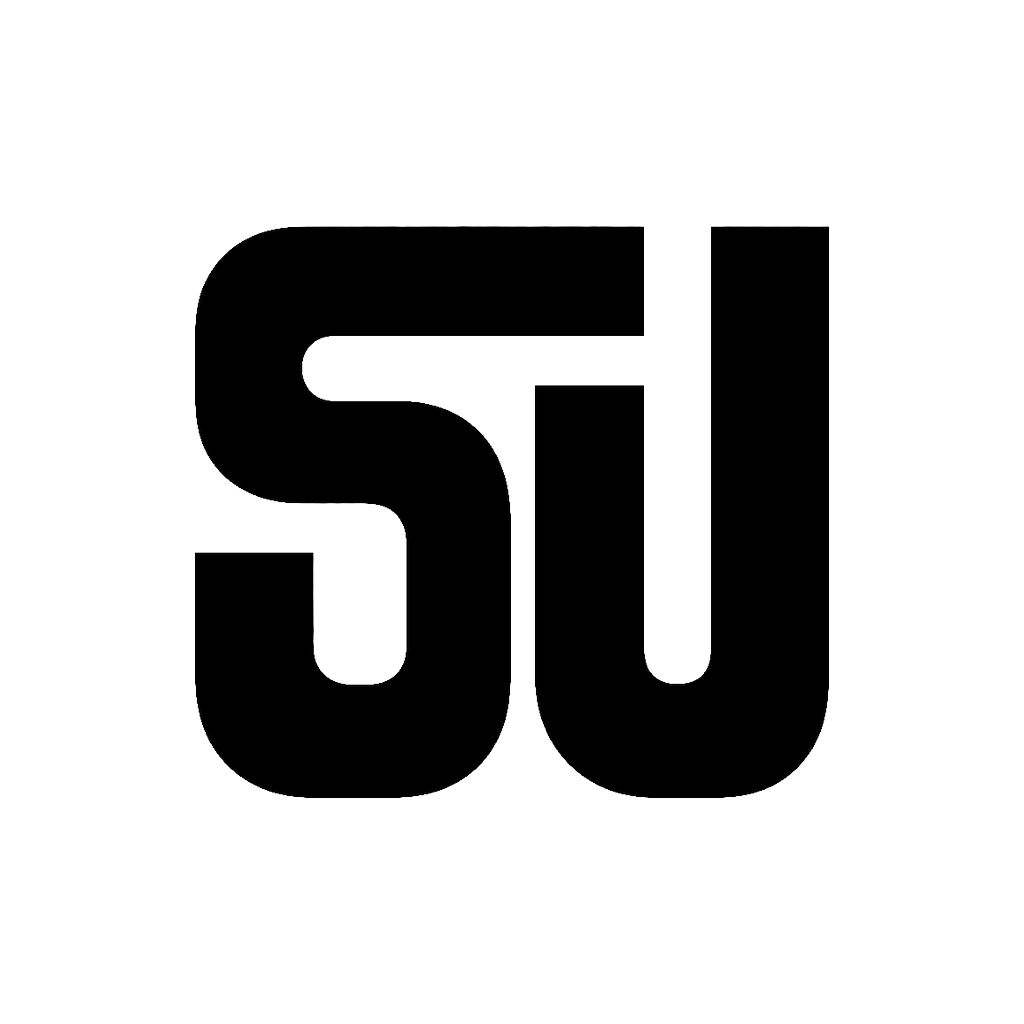
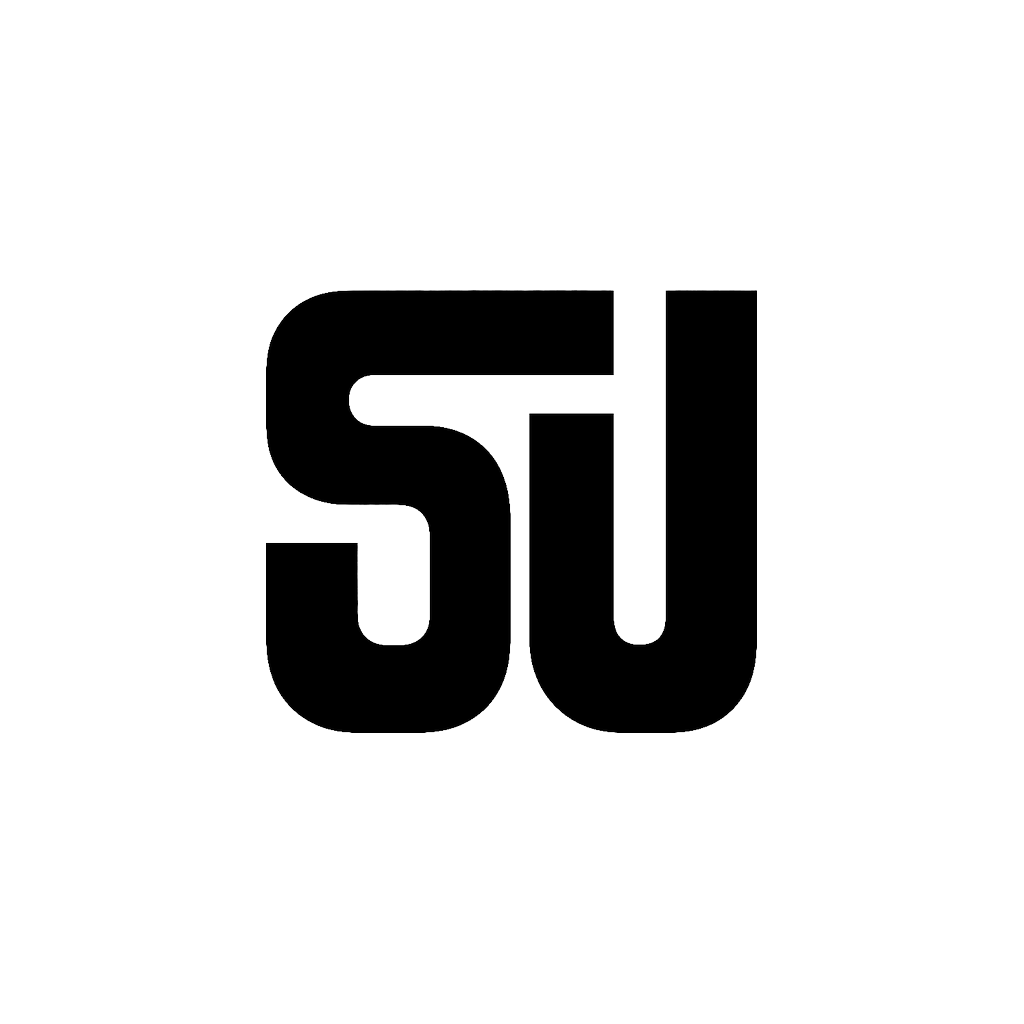
Ship v5.0.11: shrink the SU launcher mark so Android does not clip it, and keep Assist off in this freeze.

Changed region(s): [[0.1875, 0.2188, 0.8125, 0.7812]]

diff --git a/apps/mobile/app/(tabs)/ai.tsx b/apps/mobile/app/(tabs)/ai.tsx
@@ -1,5 +1,5 @@
 import Ionicons from '@expo/vector-icons/Ionicons';
-import { type Href, useLocalSearchParams, useRouter } from 'expo-router';
+import { type Href, Redirect, useLocalSearchParams, useRouter } from 'expo-router';
 import { useCallback, useEffect, useMemo, useRef, useState } from 'react';
 import {
   ActivityIndicator,
@@ -47,13 +47,7 @@ import { useTheme, useThemedStyles, type AppTheme } from '@/src/theme';
 type Phase = 'home' | 'setup' | 'working' | 'review' | 'applied';
 
 export default function AssistScreen() {
-  if (!launchFlags.ai) {
-    return (
-      <View style={{ flex: 1, padding: 24, justifyContent: 'center' }}>
-        <Text>Assist is off in this build.</Text>
-      </View>
-    );
-  }
+  if (!launchFlags.ai) return <Redirect href="/" />;
   return <AssistScreenInner />;
 }
 

diff --git a/apps/mobile/src/lib/launchFlags.ts b/apps/mobile/src/lib/launchFlags.ts
@@ -15,13 +15,9 @@ function extra(name: string): string {
  * and fall back to `extra` baked at prebuild (GitHub APKs set these in CI).
  */
 export const launchFlags = {
-  /** Assist tab + settings. Off in Play/store unless EXPO_PUBLIC_LAUNCH_AI=1. */
+  /** Assist tab + settings. Off unless EXPO_PUBLIC_LAUNCH_AI=1 is set explicitly. */
   get ai() {
-    return resolveBinaryFlag(
-      process.env.EXPO_PUBLIC_LAUNCH_AI,
-      extra('launchAi'),
-      typeof __DEV__ !== 'undefined' && __DEV__,
-    );
+    return resolveBinaryFlag(process.env.EXPO_PUBLIC_LAUNCH_AI, extra('launchAi'), false);
   },
   /** Camera/image “scan” placeholder. Not OCR. */
   get scan() {

diff --git a/docs/STORE.md b/docs/STORE.md
@@ -29,7 +29,7 @@ GitHub APKs and Google Play builds use different signing keys. Uninstall a sidel
 **Support email:** z@blazedigitaldesign.com  
 **Privacy:** https://github.com/GlorbyZ/setlist-ultra/blob/main/docs/privacy.md (also in-app Settings → Privacy).
 
-Play Store V1 (EAS `production`) does **not** enable the Assist tab. GitHub sideload APKs may still set `EXPO_PUBLIC_LAUNCH_AI=1`.
+Play Store V1 and GitHub APKs do **not** enable the Assist tab. Assist stays off unless `EXPO_PUBLIC_LAUNCH_AI=1` is set on purpose.
 
 ## Data safety inventory (Play Console)
 

diff --git a/docs/BUILD.md b/docs/BUILD.md
@@ -37,8 +37,8 @@ npm run mobile          # or: npm run mobile:clear after native builds
 ## Ship an APK (recommended)
 
 ```bash
-git tag v5.0.10
-git push origin v5.0.10
+git tag v5.0.11
+git push origin v5.0.11
 ```
 
 CI workflow `.github/workflows/android-release.yml` builds and attaches `setlist-ultra-android.apk`.

diff --git a/README.md b/README.md
@@ -30,7 +30,7 @@ Full process: **[docs/BUILD.md](docs/BUILD.md)** · Hosted catalog: **[services/
 
 ```bash
 npm run preflight && npm run typecheck && npm test
-git tag v5.0.10 && git push origin v5.0.10
+git tag v5.0.11 && git push origin v5.0.11
 ```
 
 ## Project layout
